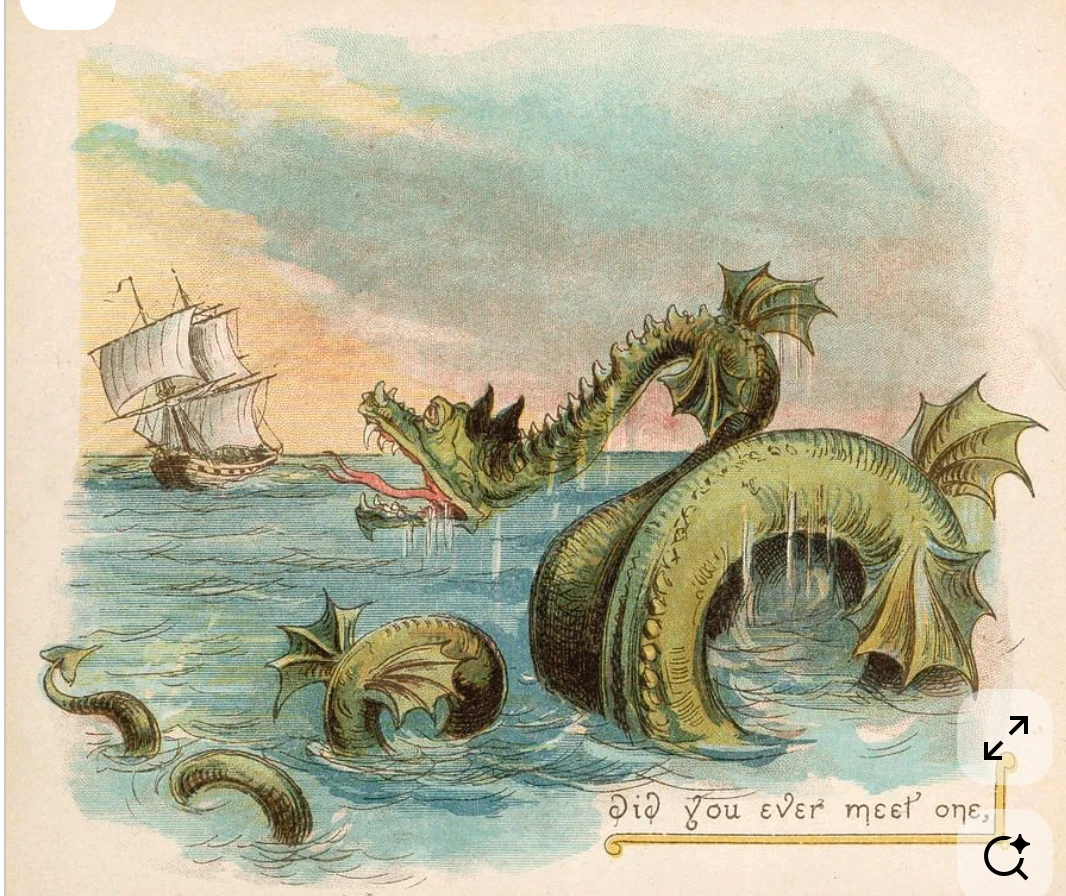
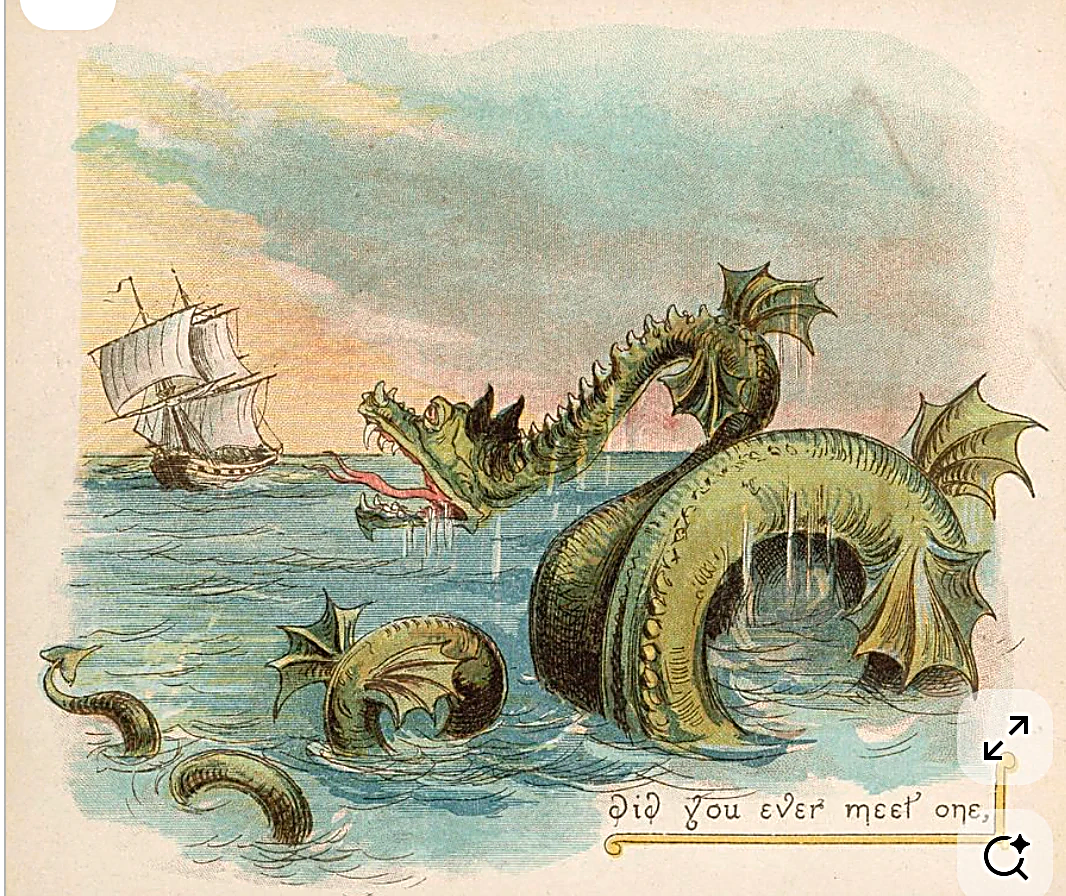
Revert follow-the-best; align the kraken's galleon; sharpen the sea serpent
The chart goes back to a plain selection: seeded to the best spot on load, and
changing only when you pick one. Following the recommendation as the time bar
moved meant the arrows jumped from beach to beach mid-scrub, which reads as the
map twitching rather than as an answer. Hover selects again, and the chart head
drops the "· best" / "· pinned" suffix that mode needed.

The kraken is anchored so the galleon at the top of the plate lands on the left
edge of the content column. The hull begins 38.3% across the image — measured
off the plate, not eyeballed: columns 140-150 carry no ink and it resumes hard
at 155 of 405.

Its width now follows from that same number instead of being chosen. Aligning
it at a fixed width opened a band of bare parchment down its left, because to
put the galleon on the column edge AND keep the plate's own edge off the
window it must be at least gutter/0.383 wide. Past the cap the shift pins to
zero rather than going positive: the alignment drifts instead of the strip
coming back, since a small misalignment reads as nothing and an empty edge
reads as a mistake. Checked 1340-2240px — flush at every width, exact to 1720.

The sea serpent gets an unsharp mask, and only that. It was the washiest plate
and its contours were dissolving. Unlike the levels flattening tried and
reverted earlier, sharpening leaves the midtones alone — it adds difference
across each line's own edge. Contour energy +76%, wash retained at 89% of what
it was.
[…]

Changed region(s): [[0.031, 0.2812, 0.9906, 0.9688]]

diff --git a/app.js b/app.js
@@ -851,22 +851,11 @@ function renderChart(rows, cond, activeId) {
   svg.querySelectorAll(".pin").forEach((g) => {
     const id = g.dataset.spot;
     g.addEventListener("click", () => selectSpot(id, true));
-    g.addEventListener("mouseenter", () => previewSpot(id));
+    g.addEventListener("mouseenter", () => selectSpot(id, false));
   });
 
-  svg.addEventListener("mouseleave", clearPreview);
-
-  // Say which mode the map is in, because the difference matters: following
-  // means the arrows will move to another beach as you scrub, pinned means
-  // they will not.
   const activeSpot = SPOTS.find((s) => s.id === activeId);
-  const head = document.getElementById("chart-active");
-  head.textContent = activeSpot
-    ? `${activeSpot.name}${STATE.pinnedId ? " · pinned" : " · best"}`
-    : "—";
-  head.title = STATE.pinnedId
-    ? "Pinned to this spot. Click it on the map again to follow the best spot."
-    : "Following the best spot at the selected hour. Click a spot to pin it.";
+  document.getElementById("chart-active").textContent = activeSpot?.name ?? "—";
   renderMapFooter(activeSpot, cond);
 }
 
@@ -1249,8 +1238,7 @@ function renderSheet(rows, cond, slots, tideModel) {
       btn.setAttribute("aria-expanded", String(!open));
       selectSpot(li.dataset.spot, false);
     });
-    btn.addEventListener("mouseenter", () => previewSpot(li.dataset.spot));
-    btn.addEventListener("mouseleave", clearPreview);
+    btn.addEventListener("mouseenter", () => selectSpot(li.dataset.spot, false));
   });
 
   sheet.querySelectorAll("[data-week]").forEach((btn) => {
@@ -1295,52 +1283,24 @@ function renderSheet(rows, cond, slots, tideModel) {
 // land 34 minutes off that grid, silently mismatching the tile the slider
 // claims to be on and printing a ":00" label that was never quite true.
 // Offset 0 stays exact — it always reads Date.now() directly, live.
-// Which spot the chart's arrows belong to. `pinnedId` is null by default,
-// which means FOLLOW THE RECOMMENDATION: scrubbing the time bar walks the
-// arrows from spot to spot as the best spot changes, so the map answers "where
-// should I go at this hour" rather than "what is this one beach doing". Click
-// a spot and it pins there instead, and the slider then tells you that one
-// spot's story through time; click it again to hand the map back.
+// Which spot the chart's arrows belong to. Seeded on load to whichever spot is
+// best at that moment, and thereafter it only changes when you pick one.
 //
-// `hoverId` is separate on purpose. Hovering used to set the selection, which
-// would now mean brushing across the map silently pinned whatever you passed
-// over. It is a preview: it overrides both while the cursor is on a spot and
-// is dropped the moment it leaves.
+// Making the arrows FOLLOW the recommendation as the time bar moved was tried
+// and taken out: the arrows jumped from beach to beach mid-scrub, which reads
+// as the map twitching rather than as an answer. The bar is for watching one
+// spot through time; where to go is the verdict card's job and the X's.
 let STATE = { rows: [], swell: {}, wind: {}, tideModel: null, hours: null, slots: null,
-  pinnedId: null, hoverId: null, bestId: null,
-  hourOffset: 0, baseMs: Math.floor(Date.now() / FORECAST.HOUR_MS) * FORECAST.HOUR_MS };
+  activeId: null, hourOffset: 0, baseMs: Math.floor(Date.now() / FORECAST.HOUR_MS) * FORECAST.HOUR_MS };
 
-/** The spot the chart is currently showing arrows for. */
-const activeSpotId = () => STATE.hoverId ?? STATE.pinnedId ?? STATE.bestId;
-
-/** Repaint the chart and the sheet's highlight for whatever is active now. */
-function paintActive(scrollTo) {
-  const id = activeSpotId();
+function selectSpot(id, scroll) {
+  if (STATE.activeId === id && !scroll) return;
+  STATE.activeId = id;
   const { cond } = condAt(STATE.hourOffset);
   renderChart(STATE.rows, cond, id);
   document.querySelectorAll(".spot").forEach((li) =>
     li.classList.toggle("is-active", li.dataset.spot === id));
-  if (scrollTo) document.getElementById(`spot-${id}`)?.scrollIntoView({ behavior: "smooth", block: "center" });
-}
-
-/** Click: pin the map to this spot, or release it if it is already pinned. */
-function selectSpot(id, scroll) {
-  STATE.pinnedId = STATE.pinnedId === id ? null : id;
-  STATE.hoverId = null;
-  paintActive(scroll && STATE.pinnedId != null);
-}
-
-/** Hover: show this spot without committing to it. */
-function previewSpot(id) {
-  if (STATE.hoverId === id) return;
-  STATE.hoverId = id;
-  paintActive(false);
-}
-
-function clearPreview() {
-  if (STATE.hoverId == null) return;
-  STATE.hoverId = null;
-  paintActive(false);
+  if (scroll) document.getElementById(`spot-${id}`)?.scrollIntoView({ behavior: "smooth", block: "center" });
 }
 
 async function fetchJson(url) {
@@ -1369,17 +1329,12 @@ function retime(offset) {
   const byOrder = rows.slice().sort((a, b) => a.spot.order - b.spot.order);
   STATE.rows = byOrder;
 
-  // The recommendation moves as the hour moves, and with nothing pinned the
-  // chart follows it — this is what makes scrubbing the bar show you where to
-  // go rather than only what one beach is doing.
-  STATE.bestId = best.spot.id;
-
   renderVerdict(best, cond, ms, isMeasured, STATE.tideModel);
   updateSheetForTime(byOrder, cond);
   updateForecastHighlight(ms);
-  renderChart(byOrder, cond, activeSpotId());
+  renderChart(byOrder, cond, STATE.activeId ?? best.spot.id);
   renderTimeControl(offset, ms, isMeasured);
-  document.querySelector(`.spot[data-spot="${activeSpotId()}"]`)?.classList.add("is-active");
+  document.querySelector(`.spot[data-spot="${STATE.activeId ?? best.spot.id}"]`)?.classList.add("is-active");
 }
 
 /** Patch the already-rendered rows in place: dial, readouts, badge, meters. */
@@ -1470,9 +1425,9 @@ function renderShell(swell, wind, tide, forecast, errors, tidePending) {
   const seedRows = SPOTS.map((spot) => ({ spot, score: SCORE.scoreSpot(spot, seedCond) }))
     .sort((a, b) => a.spot.order - b.spot.order);
   renderSheet(seedRows, seedCond, STATE.slots, STATE.tideModel);
-  // Nothing is seeded as selected. The page opens FOLLOWING the recommendation
-  // rather than pinned to whichever spot happened to win on load — pinning it
-  // there was what stopped the arrows moving with the time bar.
+  STATE.activeId = STATE.activeId
+    ?? seedRows.slice().sort(SCORE.compareScored)[0].spot.id;
+
   retime(STATE.hourOffset);
 }
 

diff --git a/style.css b/style.css
@@ -197,18 +197,32 @@
   aspect-ratio: 800 / 769;
   transform: translate(24%, 22%) rotate(5deg) scaleX(-1);
 }
-/* A little smaller than the other corner plates — it is a dense, busy image
-   (a whole creature plus three galleons) where the others are a single
-   creature, so at matched width it carried far more ink than its share. */
+/* Anchored so the galleon at the top of the plate lines up with the left edge
+   of the content column. The hull begins 38.3% across the image — measured off
+   the plate itself: columns 140-150 carry no ink and it resumes hard at 155 of
+   405 — so the plate is pulled back by exactly that fraction from the column
+   edge.
+
+   Its width then follows from the same number rather than being chosen. To put
+   the galleon on the column edge AND still run the plate's own left edge off
+   the window, the plate must be at least gutter / 0.383 wide; anything less and
+   a band of bare parchment opens up to its left, which is what happened when
+   the alignment was first added at a fixed width.
+
+   The `min(0px, ...)` is the graceful failure. Past the cap the equation would
+   start pushing the plate rightwards again, so instead it pins flush to the
+   window and the alignment drifts — a small misalignment reads as nothing, an
+   empty strip down the edge reads as a mistake. */
 .marg-kraken {
   left: 0;
-  width: clamp(110px, 23vw, 380px);
+  width: clamp(260px, calc((100vw - 1180px) / 0.766 + 24px), 900px);
   aspect-ratio: 405 / 390;
-  transform: translate(-14%, 20%) rotate(3deg);
+  transform: translate(min(0px, calc((100vw - 1180px) / 2 - 38.3%)), 20%) rotate(3deg);
 }
+
 @media (min-width: 1400px) {
   .marg-dragon { transform: translate(12%, 16%) rotate(5deg) scaleX(-1); }
-  .marg-kraken { width: clamp(190px, 17vw, 345px); transform: translate(-4%, 15%) rotate(3deg); }
+  .marg-kraken { transform: translate(min(0px, calc((100vw - 1180px) / 2 - 38.3%)), 15%) rotate(3deg); }
 }
 
 .marg-serpent {
